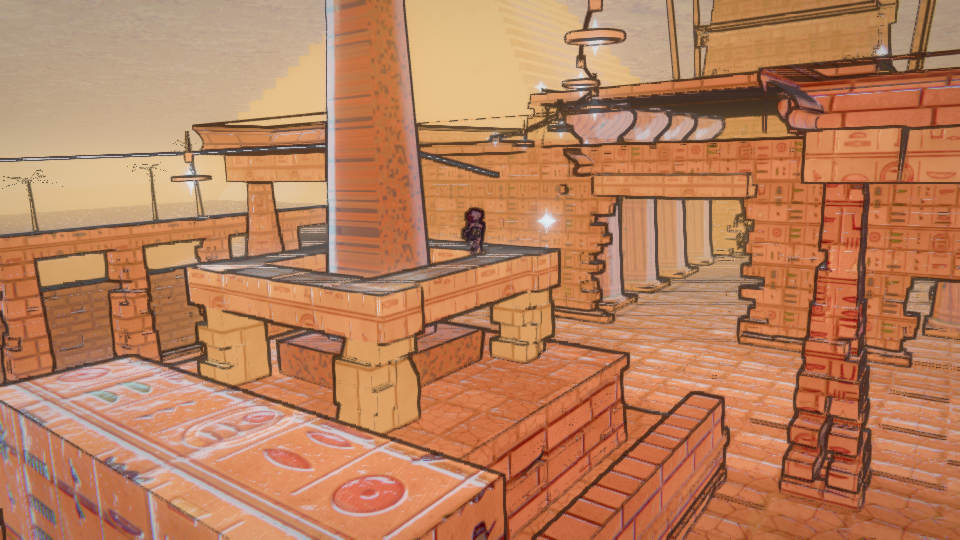
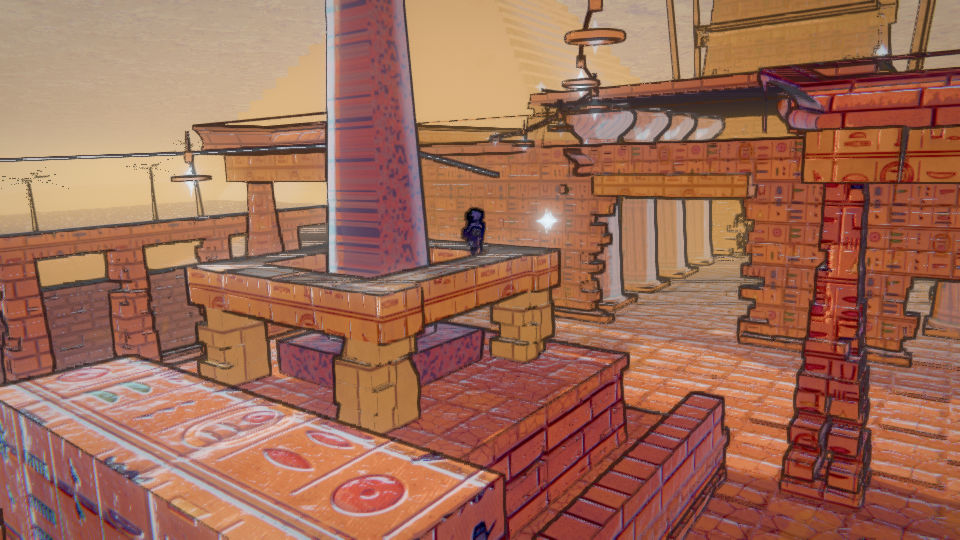
Switch shadows from VSM to PCF-soft
The courtyard rendered with no cast shadows at all under a 22-degree sun, which
is a major gap - long raking shadows are most of what sells a golden-hour read.

Plumbing checked out: cascades have castShadow with mapSize and camera set,
geometry is flagged cast/receive, and the toon shader does sample getShadowMask.
That left the shadow map type. VSM was chosen for its cheap wide penumbra, but it
light-bleeds badly across geometry with this much contrast and depth range, and
bleeding presents exactly as 'everything is lit'.

PCF-soft is noisier per sample but it actually occludes. Lighting.js's
vsmBlurSamples become inert; its bias and normalBias are already in a sane range
for PCF.

Claude-Session: https://claude.ai/code/session_01PXtatFVa9WWnKz5zHerfeC

diff --git a/src/core/Engine.js b/src/core/Engine.js
@@ -45,7 +45,11 @@ export class Engine {
     this.renderer.toneMappingExposure = 1.0;
 
     this.renderer.shadowMap.enabled = true;
-    this.renderer.shadowMap.type = THREE.VSMShadowMap;
+    // PCF-soft, not VSM. VSM was the original choice for its cheap wide penumbra, but it
+    // light-bleeds badly across the high-contrast, large-depth-range geometry here — bleeding
+    // reads as "everything is lit", and the courtyard rendered with no cast shadows at all
+    // under a 22° sun. PCF is noisier per-sample but it actually occludes.
+    this.renderer.shadowMap.type = THREE.PCFSoftShadowMap;
     this.renderer.shadowMap.autoUpdate = true;
 
     this.renderer.autoClear = true;
